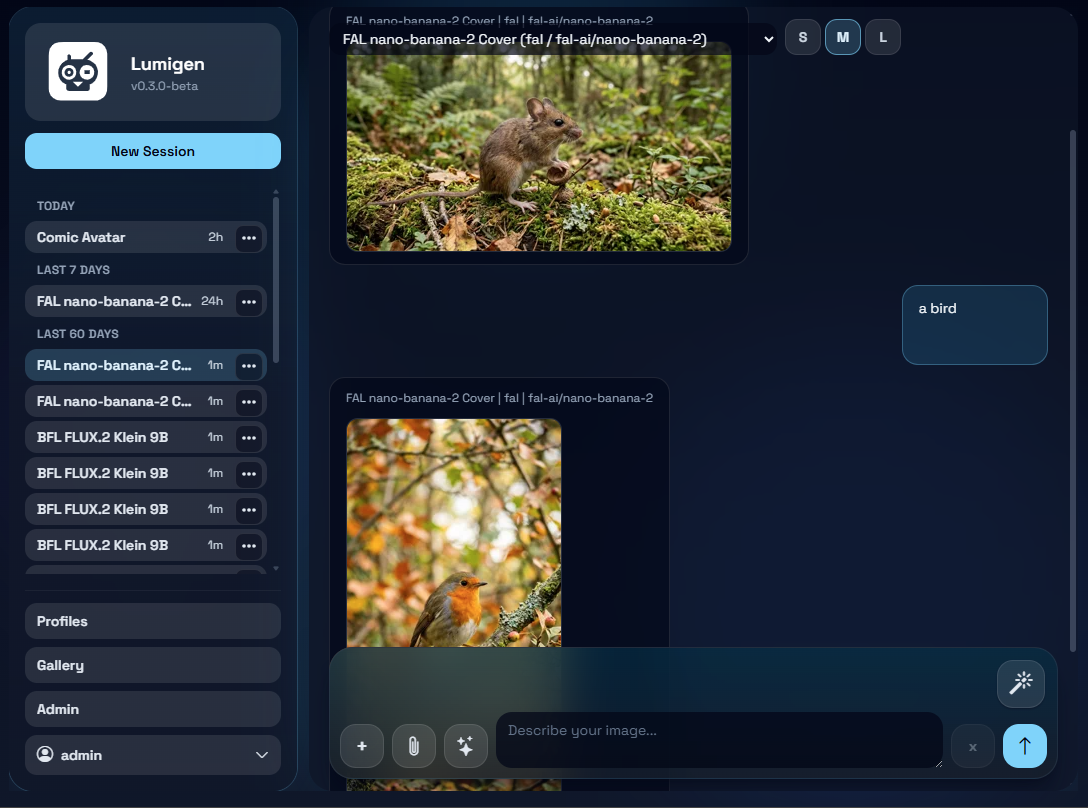
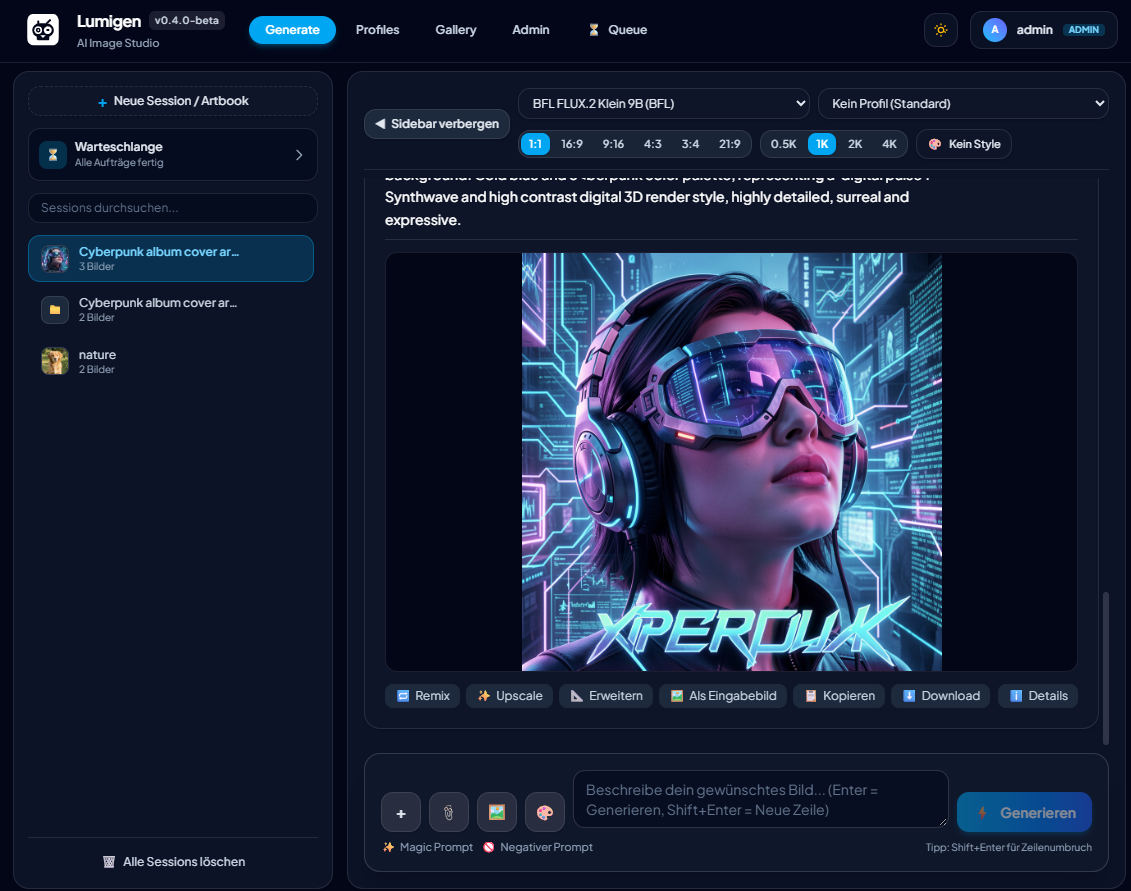
docs: add v0.4.0-beta release notes and screenshots

diff --git a/docs/releases/v0.4.0-beta.md b/docs/releases/v0.4.0-beta.md
@@ -1,0 +1,102 @@
+# Lumigen v0.4.0-beta
+
+Fourth beta release of **Lumigen**, introducing a modern Vue 3 Single-Page Application (SPA) frontend, an intelligent background generation queue with concurrency management, decoupled workflows, and enhanced provider routing.
+
+> [!NOTE]
+> Beta release: This release represents a major architectural milestone with the migration to a modern Vue 3 SPA and an asynchronous background generation queue. While core workflows are stabilized and covered by comprehensive tests, please report any UI or queue issues on GitHub.
+
+---
+
+## Highlights
+
+- **Modern Vue 3 SPA Architecture**: Full frontend modernization featuring Vue 3, Vite, Pinia state management, Vue Router, and Tailwind CSS for instant transitions and a polished studio experience.
+- **Asynchronous Generation Queue**: Submit multiple generation jobs consecutively without blocking the UI. An intelligent backend FIFO semaphore manages concurrency to prevent provider rate limits and resource contention.
+- **Slide-Over Queue Drawer**: Real-time background job monitor accessible from any page, showing active progress, percentage estimates, prompt snippets, and direct cancellation controls.
+- **One-Click Retry**: Instantly re-run failed or cancelled generation tasks with identical prompt, model, and resolution settings.
+- **Decoupled Profile & Model Workflows**: Freely switch and experiment with different models and parameters without unintentionally modifying or overriding active saved profiles.
+- **Intelligent OpenRouter Routing**: Automatic endpoint resolution that dynamically routes requests between multimodal LLM chat completions and dedicated `/api/v1/images` endpoints with aspect ratio translation.
+- **Credits & System Diagnostics**: New in-app `CreditsModal` and `SystemInfoTab` for transparent open-source attribution, license tracking, and system diagnostics.
+- **Production Container & SSL Support**: Multi-stage Docker build packaging the compiled Vue SPA and FastAPI backend with configurable HTTPS/SSL support.
+
+---
+
+## What's New
+
+### Modern Frontend & User Experience
+
+- **Vue 3 + Vite SPA**: Replaced legacy server-rendered fragments with a reactive Single-Page Application located in `frontend/`, providing instant navigation and smooth micro-interactions.
+- **Centralized Pinia State Stores**: Unified reactive stores for authentication, generation jobs, active sessions, gallery filters, and system settings.
+- **Modular Studio Components**: Rebuilt header (`AppHeader`), interactive modals (`CreditsModal`), drawer panels, and toast notification systems.
+- **Artbook & Session Enhancements**: Set session cover images directly from chat cards, filter sessions dynamically, and export complete session ZIP archives with sidecar metadata.
+- **Dynamic Gallery & Asset Inspection**: Refined thumbnail sizing, enhanced rating visibility, batch operations, and in-depth asset detail inspector.
+
+### Generation Pipeline & Concurrency Control
+
+- **Non-Blocking Queue Submission**: The Generate button remains interactive during active runs, displaying queued counts (e.g. `+2`) as jobs are scheduled.
+- **Server-Side Concurrency Throttling**: FIFO semaphore queue ensures stable multi-job execution without exceeding provider rate limits.
+- **Active Job Cancellation**: Cancel any pending or actively generating task directly from the slide-over queue drawer or generation feed.
+- **Instant Job Recovery**: Every failed or cancelled job card includes a **"🔄 Retry"** action that clones and re-enqueues parameters without manual re-entry.
+
+### AI Providers & Model Integration
+
+- **OpenRouter Endpoint Adaptation**: Automatic detection routes standard chat models to completion endpoints and dedicated image models (DALL-E, Imagen 3) to `/api/v1/images`.
+- **Expanded Adapters**: Production-tested adapters for OpenAI (DALL-E), Black Forest Labs (BFL Flux), and FAL.ai (Flux, SD, Topaz upscaler).
+- **Configurable Timeouts**: Granular timeout settings per provider (`TIMEOUT_OPENAI`, `TIMEOUT_FAL`, `TIMEOUT_LLM`, etc.) configurable via `.env`.
+
+### Admin, System & Compliance
+
+- **System Diagnostics Tab**: Comprehensive system overview displaying environment details, runtime versions, active providers, and storage health.
+- **Third-Party Attribution**: Added `CreditsModal` and updated `THIRD_PARTY_LICENSES.md` adhering to license compliance for all included open-source packages and redistributed assets.
+- **Hardened Docker & HTTPS**: Multi-stage Docker image with built-in CA certificates and configurable SSL certificate parameters (`LUMIGEN_SSL_CERT_FILE`, `LUMIGEN_SSL_KEY_FILE`).
+
+---
+
+## Upgrade and Setup
+
+### 1. Update Python Dependencies
+```bash
+pip install -r requirements.txt
+```
+
+### 2. Install Frontend Dependencies
+```bash
+npm install
+```
+
+### 3. Apply Database Migrations
+```bash
+alembic upgrade head
+```
+
+### 4. Build Frontend SPA
+```bash
+npm run build
+```
+
+> **Development Mode**: Run `npm run dev` to start Vite with Hot Module Replacement (HMR) alongside the FastAPI server.
+
+### 5. Start Lumigen
+```bash
+python -m app.main
+```
+
+---
+
+## Migration Notes
+
+- Ensure Node.js 20+ is installed on your host system if building locally.
+- If using Docker, rebuild your container image with `docker compose build --no-cache` to ensure the multi-stage frontend build is applied.
+- All existing assets, sessions, and SQLite databases remain backwards-compatible.
+
+---
+
+## Known Limitations (Beta)
+
+- Building the frontend locally requires Node.js 20+ alongside Python 3.12+.
+- Providers with strict per-minute quota limits may still delay execution if multiple concurrent queue items target the same provider key.
+
+---
+
+## Acknowledgments
+
+Heartfelt thanks to all contributors and community testers who helped test the new Vue 3 frontend, background queue architecture, and provider integrations!

diff --git a/README.md b/README.md
@@ -9,6 +9,9 @@ no subscription, no tracking, your images stay on your machine.
 ![Generation Session](docs/screenshots/generation_session_view.png)
 ![Image Gallery](docs/screenshots/gallery_view.png)
 
+*Sample images shown in screenshots were generated for demonstration purposes using Black Forest Labs FLUX models.*
+
+
 
 ## Why Lumigen
 
